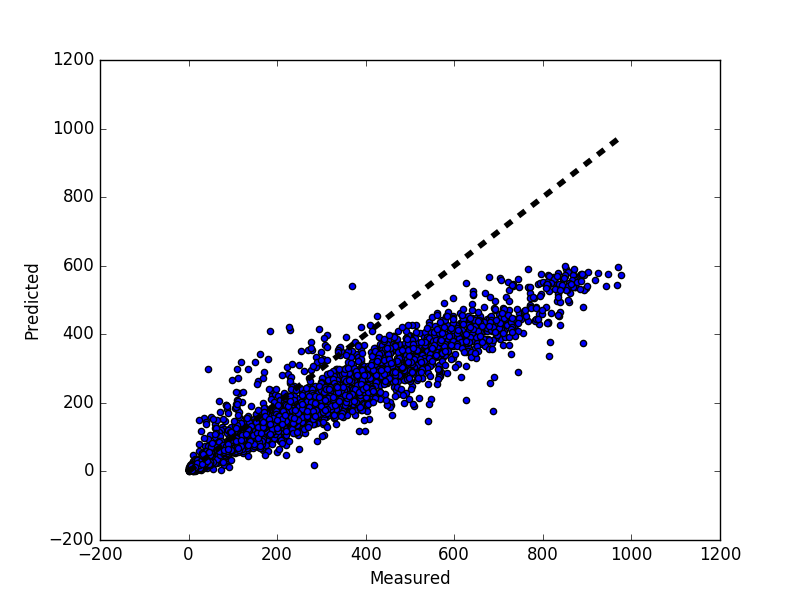
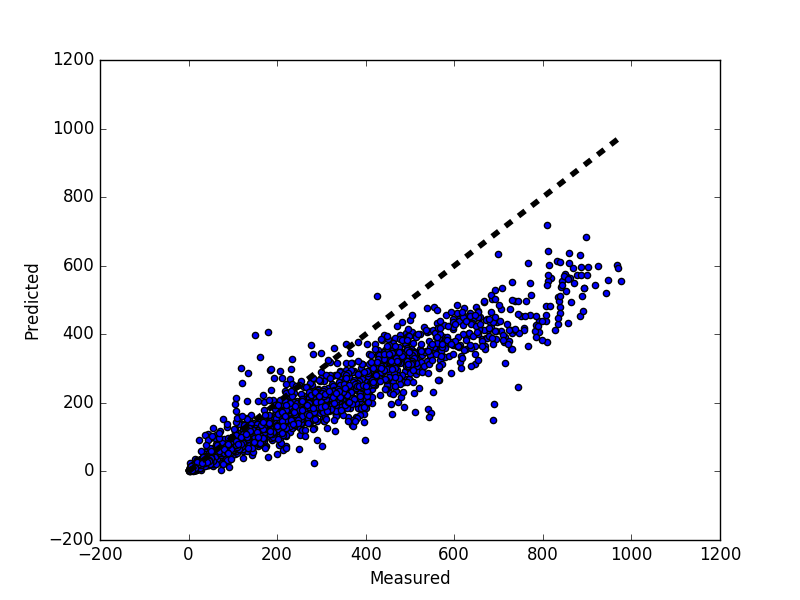
hour bins

Changed region(s): [[0.2188, 0.39, 0.7812, 0.81], [0.6562, 0.36, 0.6875, 0.39]]

diff --git a/BERSAC_Guillaume_Code.py b/BERSAC_Guillaume_Code.py
@@ -1,4 +1,4 @@
-from sklearn.ensemble import RandomForestRegressor
+from sklearn.ensemble import RandomForestRegressor, ExtraTreesRegressor
 from sklearn.cross_validation import cross_val_predict
 import math
 import numpy as np
@@ -79,6 +79,14 @@ def formatData(data):
 			zip(*data['weather'].map(refactorWeather))
 	data.drop('weather', axis=1, inplace=True)
 
+	### Refactor `hour` to non-multi-categorial
+	def refactorHour(x):
+		toReturn = [0, 0, 0, 0, 0, 0, 0, 0]
+		toReturn[int(x / 3)] = 1
+		return tuple(toReturn)
+	data['0-2'], data['3-5'], data['6-8'], data['9-11'], data['12-14'], data['15-17'], data['18-20'], data['21-23'] \
+			= zip(*data['hour'].map(refactorHour))
+
 	return data
 
 trainDS = formatData(pd.read_csv(FILE_NAME_TRAIN)) # DS for Data Set
@@ -99,12 +107,12 @@ trainDS = trainDS[cols]
 # Split dataset
 # for the features
 cols = [col for col in trainDS if col != 'count']
-trainX = trainDS.loc[:trainDS.shape[0] * 2 / 3, cols].as_matrix()
-testX = trainDS.loc[trainDS.shape[0] * 2 / 3:, cols].as_matrix()
+trainX = trainDS.loc[:trainDS.shape[0] * 4 / 5, cols].as_matrix()
+testX = trainDS.loc[trainDS.shape[0] * 4 / 5:, cols].as_matrix()
 
 # for the result
-trainY = trainDS.loc[:trainDS.shape[0] * 2 / 3, ['count']].as_matrix()
-testY = trainDS.loc[trainDS.shape[0] * 2 / 3 :, ['count']].as_matrix()
+trainY = trainDS.loc[:trainDS.shape[0] * 4 / 5, ['count']].as_matrix()
+testY = trainDS.loc[trainDS.shape[0] * 4 / 5 :, ['count']].as_matrix()
 
 ################################################################################
 # Linear regression model                                                      #
@@ -137,7 +145,7 @@ fig.savefig('img/final_lr.png')
 ################################################################################
 
 ### Compute model
-clf = RandomForestRegressor(n_estimators=10)
+clf = ExtraTreesRegressor(n_estimators=10)
 clf = clf.fit(trainX, np.ravel(trainY))
 predicted = clf.predict(testX)
 
